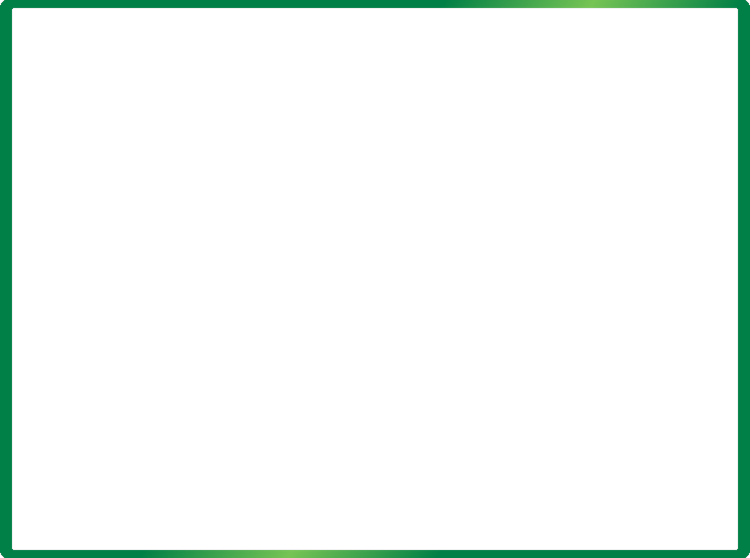
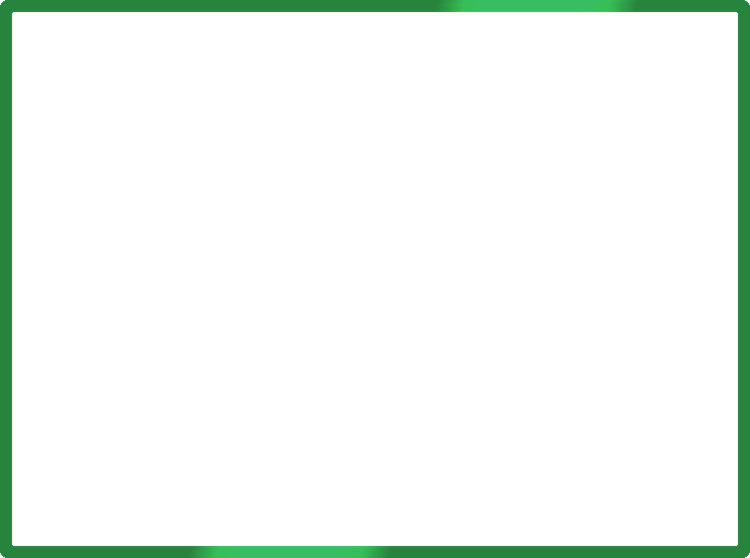
Fixed borders and added link to experienced only

Changed region(s): [[0.0, 0.0, 1.0, 1.0]]

diff --git a/ticket_help/panels/ticket_modal.py b/ticket_help/panels/ticket_modal.py
@@ -304,7 +304,7 @@ class CreateTicketModal(discord.ui.Modal):
             if experienced_only:
                 embed = discord.Embed(
                     title="⚠ Experienced Only",
-                    description="This ticket has experienced-only toggled on, only experienced helpers can claim and will be pinged.\nTo turn this off click the 'Toggle Experienced Only' button.",
+                    description="This ticket has experienced-only toggled on. Only experienced helpers can claim and will be pinged.\nTo turn this off click the 'Toggle Experienced Only' button.\nGet the role here: https://discord.com/channels/1455651278590972019/1455651281006756046",
                     color=discord.Color.red(),
                 )
                 await channel.send(embed=embed)
